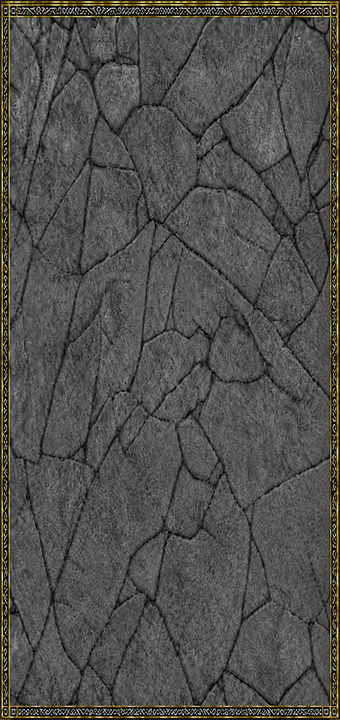
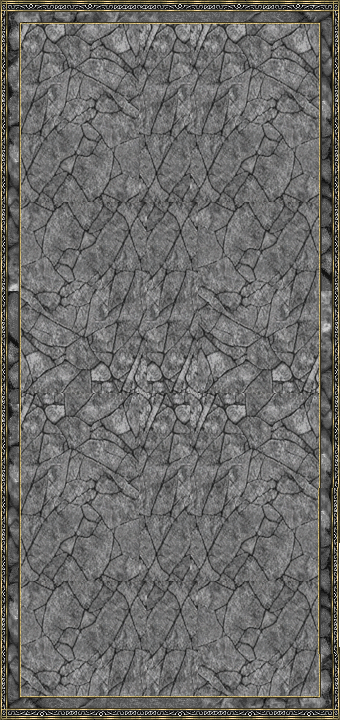
Runeword title in the game's font; the user's 340x720 canvas on every side panel (v1.9.271)

diff --git a/Source/options.cpp b/Source/options.cpp
@@ -1530,7 +1530,7 @@ OracoolOptions::OracoolOptions()
     , eventLog("Event Log", OptionEntryFlags::None, N_("Event Log"), N_("Shows a toggleable button above the durability-warning icons that opens a timestamped log of noteworthy session events."), true)
     , balanceTelemetry("Balance Telemetry", OptionEntryFlags::None, N_("Balance Telemetry"), N_("Appends kills, deaths and item pickups to balance_telemetry.csv beside your saves, as tuning data for balancing the mod. Local file only; nothing leaves your machine."), true)
     , vendorTieredStockChance("Vendor Tiered Stock Chance", OptionEntryFlags::None, N_("Vendor Tiered Stock Chance"), N_("Percent chance a vendor item is offered at a base tier above Normal. The tier follows the game difficulty."), 35, { 0, 5, 10, 15, 20, 25, 35, 50, 65, 80, 100 })
-    , panelGamma("Panel Gamma", OptionEntryFlags::None, N_("Panel Gamma"), N_("Brightness of the shared side-panel canvas, as gamma in hundredths: 100 is the stone as painted, lower is lighter."), 65, { 40, 45, 50, 55, 60, 65, 70, 75, 80, 85, 90, 95, 100, 110, 120 })
+    , panelGamma("Panel Gamma", OptionEntryFlags::None, N_("Panel Gamma"), N_("Brightness of the shared side-panel canvas, as gamma in hundredths: 100 is the stone as painted, lower is lighter."), 100, { 40, 45, 50, 55, 60, 65, 70, 75, 80, 85, 90, 95, 100, 110, 120 })
     , nakedHeroes("Naked Heroes", OptionEntryFlags::None, N_("Naked Heroes"), N_("New heroes start with no equipment, no potions and no gold. Read once, when the character is created."), true)
     , gameClock("Game Clock", OptionEntryFlags::None, N_("Game Clock"), N_("Shows the current real-world time just below the mini-map's left edge."), true)
     , gameClock12HourFormat("Game Clock 12 Hour Format", OptionEntryFlags::None, N_("Game Clock 12 Hour Format"), N_("Shows the Game Clock in 12-hour format with an AM/PM suffix instead of 24-hour format."), false)

diff --git a/Source/oracool/runeword_book.cpp b/Source/oracool/runeword_book.cpp
@@ -1,7 +1,6 @@
 #include "oracool/runeword_book.h"
 
 #include "oracool/book_frame.h" // the painted wide frame
-#include "oracool/hud_art.h"    // DrawLoosePng - the engraved title plate
 
 #include <algorithm>
 #include <array>
@@ -367,17 +366,11 @@ void DrawRunewordBook(const Surface &out)
 	DrawBookFrame(out, BookFrame::Wide, window);
 	DrawWindowCloseButton(out, window);
 
-	// The title is GPT's engraved limestone plate (oracool-runeword-book-stone-plate-v1, 128x28),
-	// centred in the title band - the same stone the fourth Levski painting carries its SALVAGE on.
-	// The text stands in only if the plate is missing.
-	const Rectangle titleBand { window.position + Displacement { Padding, Padding }, { window.size.width - Padding * 2, TitleHeight } };
-	if (const Size plate = GetLoosePngSize("ui\\runeword_book_title.png"); plate.width > 0) {
-		DrawLoosePng(out, "ui\\runeword_book_title.png",
-		    { titleBand.position.x + (titleBand.size.width - plate.width) / 2, titleBand.position.y + (titleBand.size.height - plate.height) / 2 });
-	} else {
-		DrawString(out, _("Runeword Book"), titleBand,
-		    { UiFlags::ColorWhitegold | UiFlags::FontSize24 | UiFlags::AlignCenter });
-	}
+	// The title in the game's own font, like the other books (user, 2026-09-05: "remove the runeword
+	// book title png from chatgpt and use same font as the rest"); the engraved plate lasted one build.
+	DrawString(out, _("Runeword Book"),
+	    Rectangle { window.position + Displacement { Padding, Padding }, { window.size.width - Padding * 2, TitleHeight } },
+	    { UiFlags::ColorWhitegold | UiFlags::FontSize24 | UiFlags::AlignCenter });
 
 	// The Possible-Runewords toggle: a yellow X, lit while it is what selected the rune row.
 	const Rectangle possible = PossibleFilterRect();

diff --git a/.ProjectDocumentation/02-Development-Reports/2026-09-05 - The Three Books in Stone.md b/.ProjectDocumentation/02-Development-Reports/2026-09-05 - The Three Books in Stone.md
@@ -15,3 +15,7 @@ Two of the user's paintings, shipped 1:1: `book_frame_wide.png` (944x616, clear 
 ## Verification
 
 Debug build clean; 625/626 with the standing `Drlg_l1` failure. In the game: the Runeword book (W), the Crafting book from the burger menu, and Levski's Recipes; the world should read dimly through each core, and no text should touch the bezel.
+
+## v1.9.271: the title in the game's font; the new canvas
+
+"remove the runeword book title png from chatgpt and use same font as the rest. also - i made a new 340x720 canvas. apply everywhere." The Runeword book's title is `DrawString` in the 24px face like the other two; the plate file is gone from the shipped assets (the pack stays filed). `Oracool.MPQ\340x720 Canvas.png` replaced `ui\panel_bg.png`, the one ground all six side panels share. `Panel Gamma` moved from 65 to 100 (default and the dev ini) so the new painting shows as painted; the setting still works if it wants lightening.
